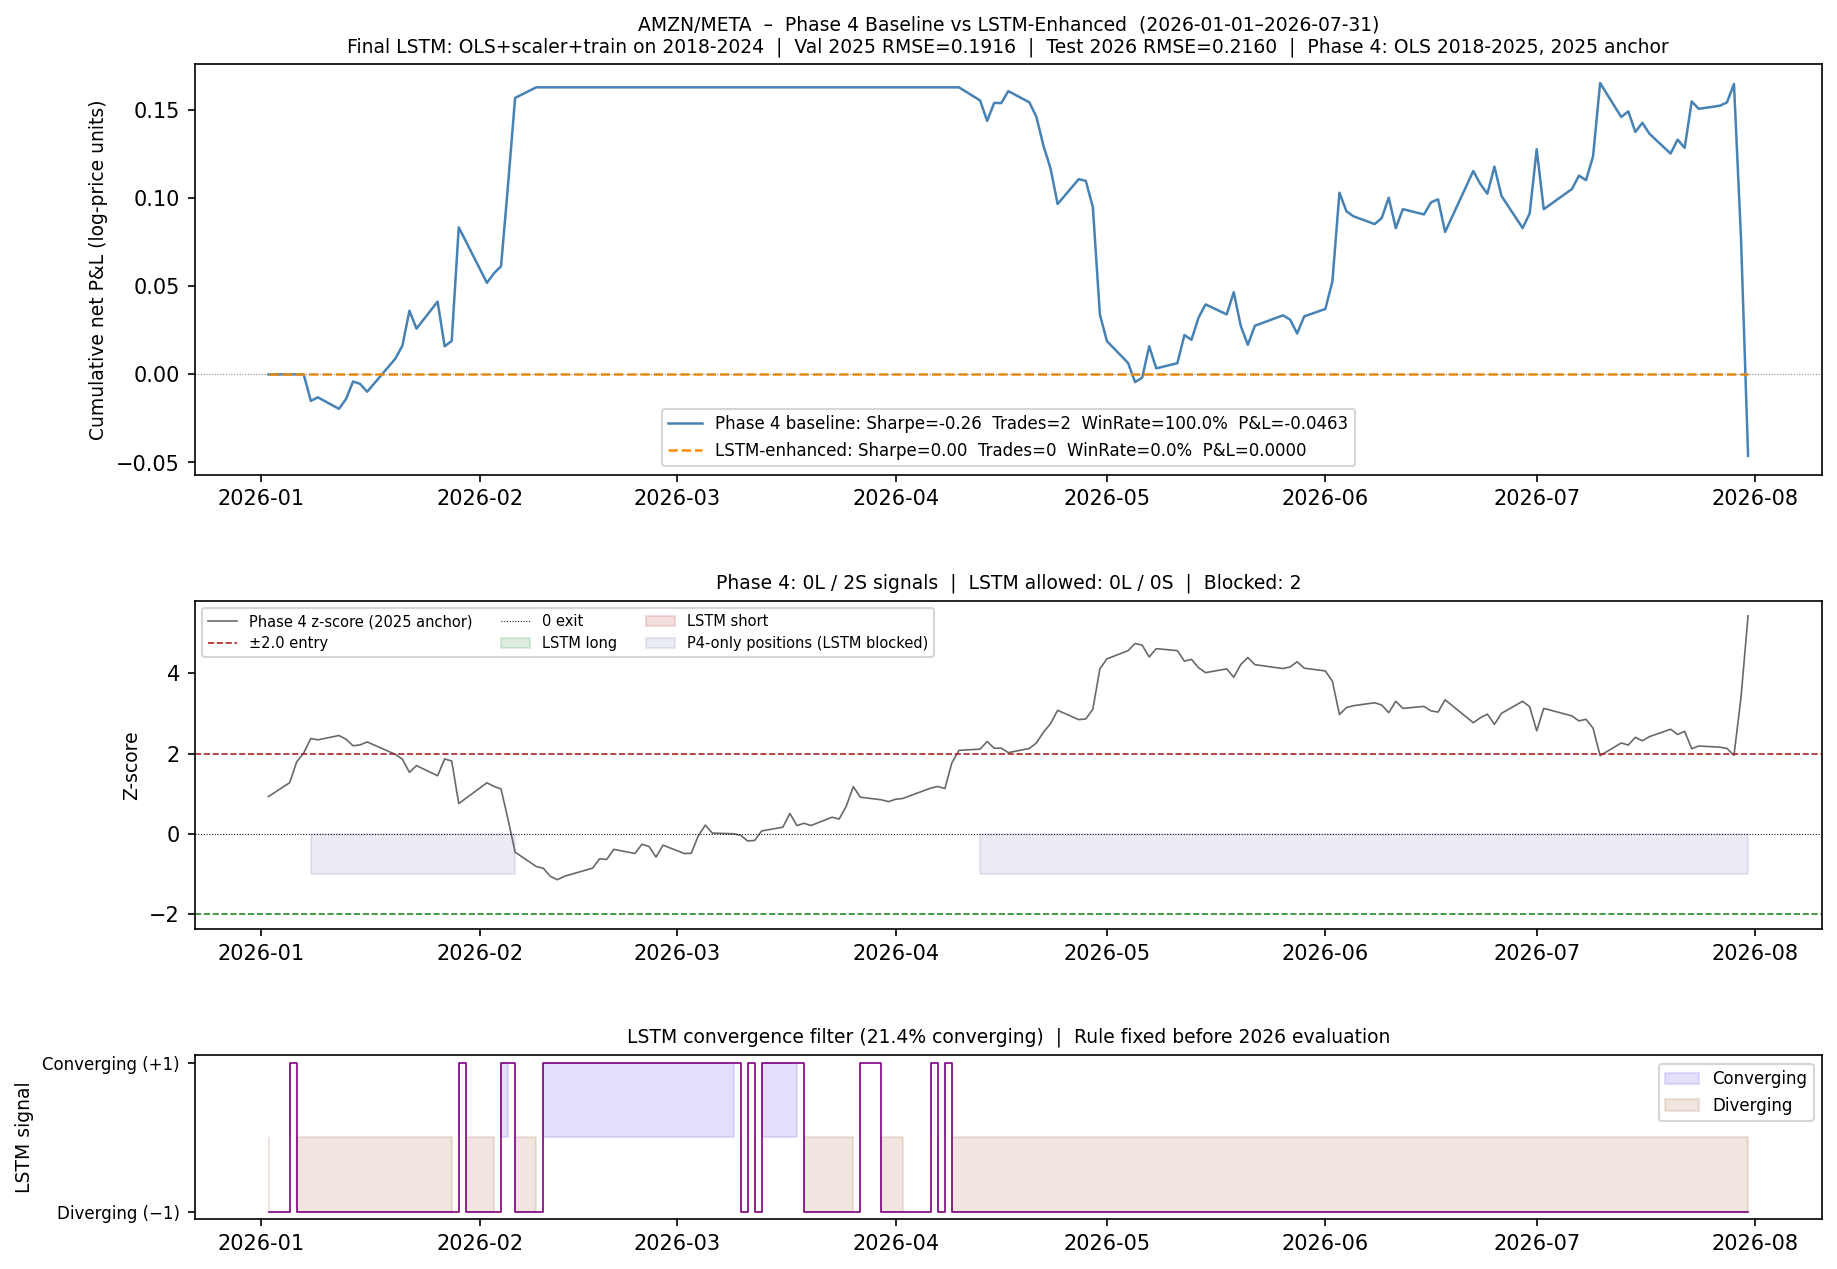
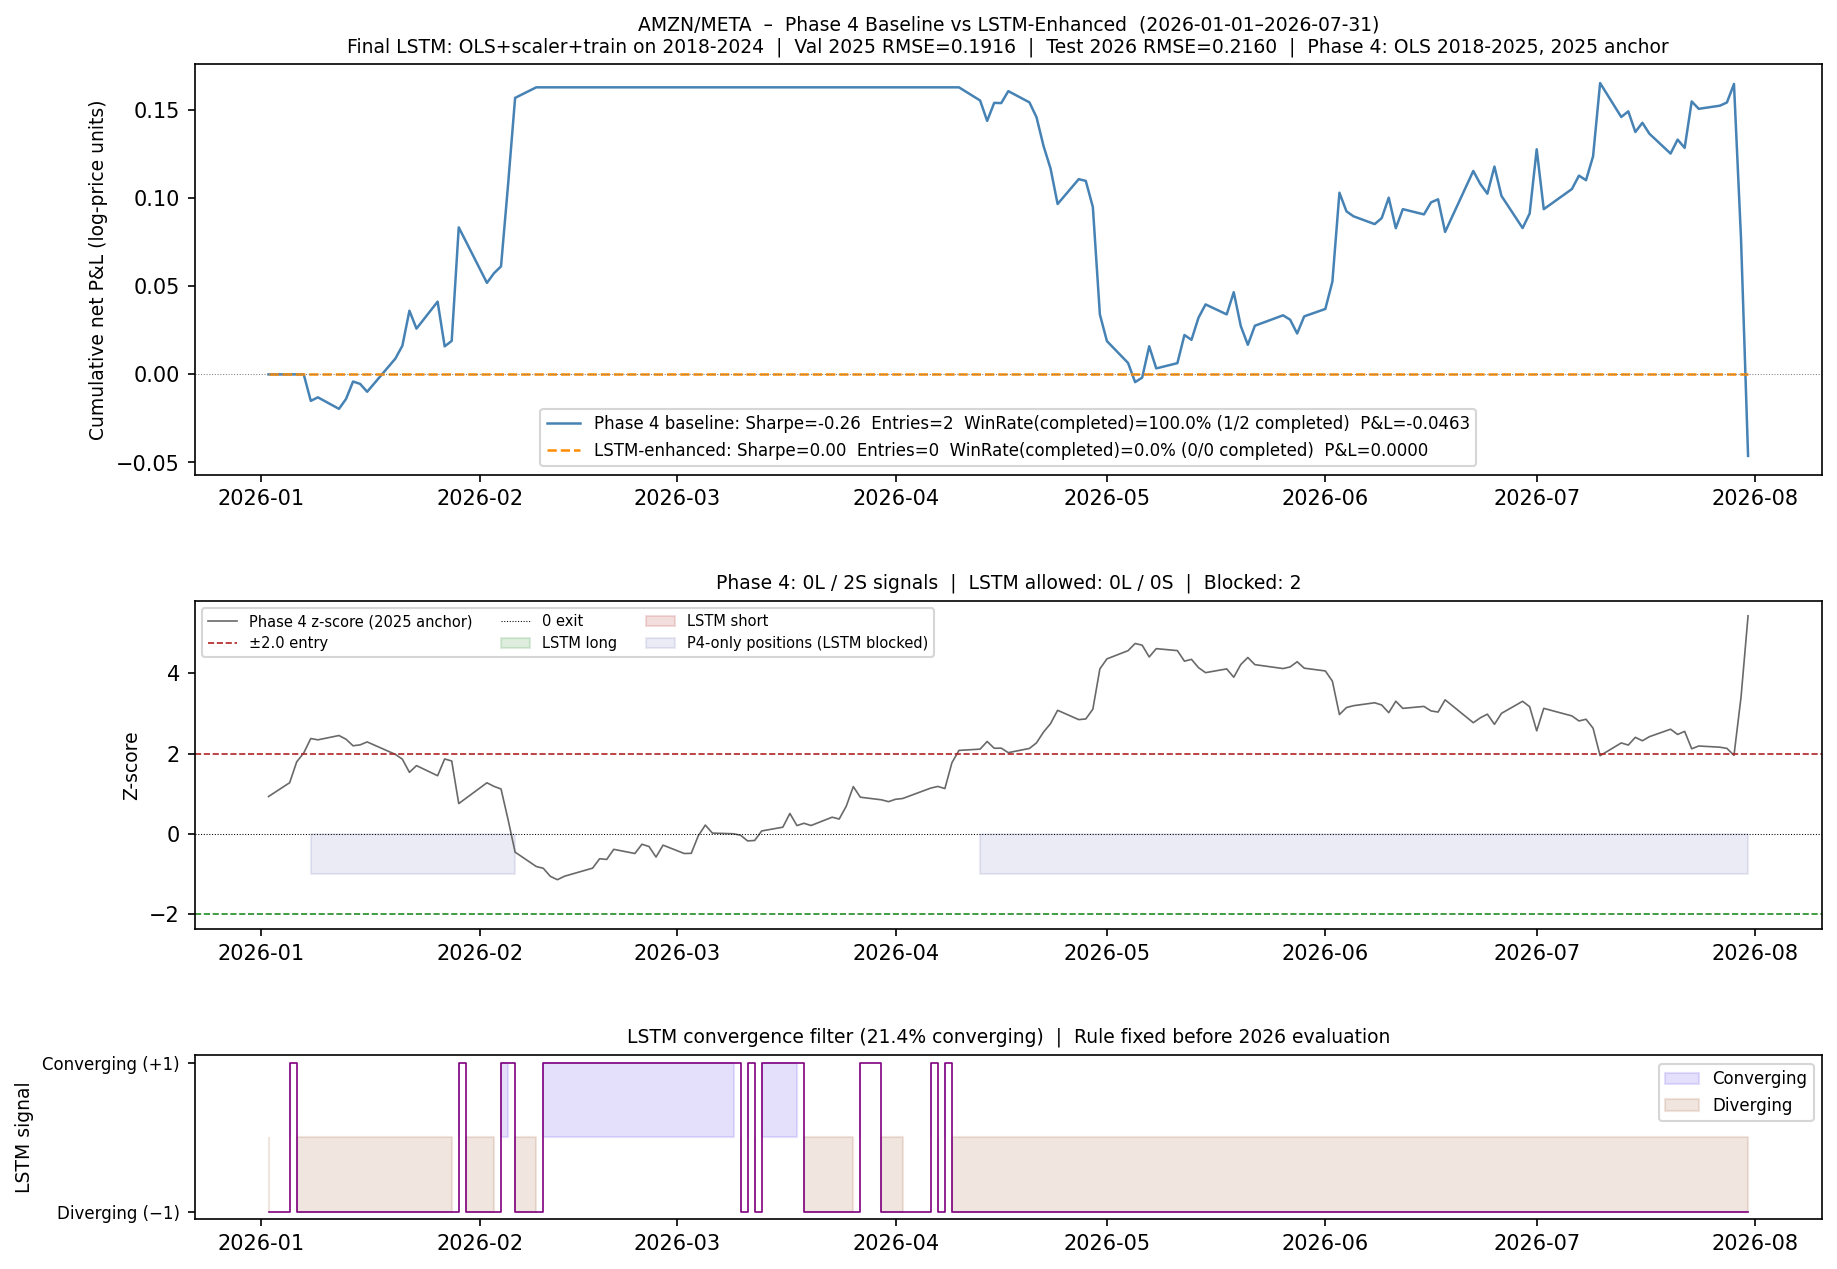
Task 4: fix win rate / completed-trade ambiguity in Phase 5
- Rename P4_Trades/LSTM_Trades -> P4_Entries/LSTM_Entries throughout
  (entry events != completed round-trips)
- Win rate now shows denominator: "100.0% (1/2 completed)"
  so 100% alongside negative total PnL is no longer misleading
- Chart legend: Trades= -> Entries=; WinRate= -> WinRate(completed)=
- CSV columns renamed to P4_CompletedWinRate, LSTM_CompletedWinRate,
  P4_Entries, LSTM_Entries
- Final summary table footer clarifies win rate denominator
- utils.py: remove unused numpy import

Changed region(s): [[0.3103, 0.3073, 0.8068, 0.3688]]

diff --git a/src/phase5_ml_spread.py b/src/phase5_ml_spread.py
@@ -1209,7 +1209,7 @@ def run_phase5_final_2026(dep, indep, tests_passed, refresh=False):
     # 10. Report comparison
     # ------------------------------------------------------------------
     REPORT_KEYS = [
-        ("Num_trades",            "Trades"),
+        ("Num_trades",            "Entries (incl. open)"),
         ("Total_PnL",             "Total net P&L"),
         ("Ann_PnL",               "Annual P&L"),
         ("Sharpe_ratio",          "Sharpe ratio"),
@@ -1230,14 +1230,16 @@ def run_phase5_final_2026(dep, indep, tests_passed, refresh=False):
         fmt_b = f"{vb:.4f}" if isinstance(vb, float) else str(vb)
         fmt_l = f"{vl:.4f}" if isinstance(vl, float) else str(vl)
         print(row_fmt.format(label, fmt_b, fmt_l))
-    # Win rate + completed-trade count (denominator)
-    wr_p4_s   = f"{wr_p4:.1f}%" if not (isinstance(wr_p4, float) and
-                                          np.isnan(wr_p4)) else "n/a"
-    wr_lstm_s = f"{wr_lstm:.1f}%" if not (isinstance(wr_lstm, float) and
-                                           np.isnan(wr_lstm)) else "n/a"
-    print(row_fmt.format("Completed-trade win rate", wr_p4_s, wr_lstm_s))
-    print(row_fmt.format("Completed trades (denom.)",
-                         str(n_comp_p4), str(n_comp_lstm)))
+    # Win rate: show "X% (n_completed/n_entries)" so the denominator is always visible
+    n_entries_p4   = m_p4.get("Num_trades",   0)
+    n_entries_lstm = m_lstm.get("Num_trades", 0)
+    def _wr_str(wr, n_comp, n_entries):
+        if isinstance(wr, float) and np.isnan(wr):
+            return f"n/a (0/{n_entries} completed)"
+        return f"{wr:.1f}% ({n_comp}/{n_entries} completed)"
+    wr_p4_s   = _wr_str(wr_p4,   n_comp_p4,   n_entries_p4)
+    wr_lstm_s = _wr_str(wr_lstm, n_comp_lstm, n_entries_lstm)
+    print(row_fmt.format("Win rate (completed only)", wr_p4_s, wr_lstm_s))
     print()
     print(f"    Signal counts:")
     blocked = (n_long_p4 + n_short_p4) - (n_long_lstm + n_short_lstm)
@@ -1301,13 +1303,13 @@ def run_phase5_final_2026(dep, indep, tests_passed, refresh=False):
     ax3a = fig3.add_subplot(gs3[0])
     ax3a.plot(bt_p4.index,   bt_p4["cum_pnl"],  color="steelblue", lw=1.2,
               label=(f"Phase 4 baseline: Sharpe={m_p4['Sharpe_ratio']:.2f}  "
-                     f"Trades={m_p4['Num_trades']}  "
-                     f"WinRate={wr_p4_s}  "
+                     f"Entries={m_p4['Num_trades']}  "
+                     f"WinRate(completed)={wr_p4_s}  "
                      f"P&L={m_p4['Total_PnL']:.4f}"))
     ax3a.plot(bt_lstm.index, bt_lstm["cum_pnl"], color="darkorange", lw=1.2, ls="--",
               label=(f"LSTM-enhanced: Sharpe={m_lstm['Sharpe_ratio']:.2f}  "
-                     f"Trades={m_lstm['Num_trades']}  "
-                     f"WinRate={wr_lstm_s}  "
+                     f"Entries={m_lstm['Num_trades']}  "
+                     f"WinRate(completed)={wr_lstm_s}  "
                      f"P&L={m_lstm['Total_PnL']:.4f}"))
     ax3a.axhline(0, color="grey", lw=0.5, ls=":")
     ax3a.set_ylabel("Cumulative net P&L (log-price units)", fontsize=9)
@@ -1383,22 +1385,22 @@ def run_phase5_final_2026(dep, indep, tests_passed, refresh=False):
         "P4_short_signals": n_short_p4,
         "LSTM_long_signals":  n_long_lstm,
         "LSTM_short_signals": n_short_lstm,
-        "P4_Sharpe":   m_p4.get("Sharpe_ratio"),
-        "P4_Trades":   m_p4.get("Num_trades"),
-        "P4_PnL":      m_p4.get("Total_PnL"),
-        "P4_MaxDD":    m_p4.get("Max_drawdown"),
-        "P4_WinRate":        round(wr_p4, 1) if not np.isnan(wr_p4) else None,
-        "P4_CompletedTrades": n_comp_p4,
-        "P4_AvgTrade":       m_p4.get("Avg_trade_PnL"),
-        "P4_InMkt":          m_p4.get("Pct_in_market"),
-        "LSTM_Sharpe":       m_lstm.get("Sharpe_ratio"),
-        "LSTM_Trades":       m_lstm.get("Num_trades"),
-        "LSTM_PnL":          m_lstm.get("Total_PnL"),
-        "LSTM_MaxDD":        m_lstm.get("Max_drawdown"),
-        "LSTM_WinRate":      round(wr_lstm, 1) if not np.isnan(wr_lstm) else None,
-        "LSTM_CompletedTrades": n_comp_lstm,
-        "LSTM_AvgTrade":     m_lstm.get("Avg_trade_PnL"),
-        "LSTM_InMkt":        m_lstm.get("Pct_in_market"),
+        "P4_Sharpe":              m_p4.get("Sharpe_ratio"),
+        "P4_Entries":             m_p4.get("Num_trades"),
+        "P4_PnL":                 m_p4.get("Total_PnL"),
+        "P4_MaxDD":               m_p4.get("Max_drawdown"),
+        "P4_CompletedWinRate":    round(wr_p4, 1) if not np.isnan(wr_p4) else None,
+        "P4_CompletedTrades":     n_comp_p4,
+        "P4_AvgTrade":            m_p4.get("Avg_trade_PnL"),
+        "P4_InMkt":               m_p4.get("Pct_in_market"),
+        "LSTM_Sharpe":            m_lstm.get("Sharpe_ratio"),
+        "LSTM_Entries":           m_lstm.get("Num_trades"),
+        "LSTM_PnL":               m_lstm.get("Total_PnL"),
+        "LSTM_MaxDD":             m_lstm.get("Max_drawdown"),
+        "LSTM_CompletedWinRate":  round(wr_lstm, 1) if not np.isnan(wr_lstm) else None,
+        "LSTM_CompletedTrades":   n_comp_lstm,
+        "LSTM_AvgTrade":          m_lstm.get("Avg_trade_PnL"),
+        "LSTM_InMkt":             m_lstm.get("Pct_in_market"),
     }
 
 
@@ -1555,23 +1557,26 @@ def main():
         print(f"{'='*65}")
         col_w = 12
         hdr2 = (f"  {'Pair':<12}  {'TestRMSE':>{col_w}}  {'P4 Sharpe':>{col_w}}  "
-                f"{'LSTM Sharpe':>{col_w}}  {'P4 Trades':>{col_w}}  "
-                f"{'LSTM Trades':>{col_w}}  {'P4 WinRate':>{col_w}}  "
-                f"{'LSTM WinRate':>{col_w}}")
+                f"{'LSTM Sharpe':>{col_w}}  {'P4 Entries':>{col_w}}  "
+                f"{'LSTM Entries':>{col_w}}  {'P4 WinRate*':>{col_w}}  "
+                f"{'LSTM WinRate*':>{col_w}}")
         print(hdr2)
         print("-" * len(hdr2))
         for r in final_rows:
-            wr_p  = f"{r['P4_WinRate']:.1f}%" if r.get("P4_WinRate") is not None \
-                    else "n/a"
-            wr_l  = f"{r['LSTM_WinRate']:.1f}%" if r.get("LSTM_WinRate") is not None \
-                    else "n/a"
+            wr_p = (f"{r['P4_CompletedWinRate']:.1f}%"
+                    f"({r['P4_CompletedTrades']}/{r['P4_Entries']})"
+                    if r.get("P4_CompletedWinRate") is not None else "n/a")
+            wr_l = (f"{r['LSTM_CompletedWinRate']:.1f}%"
+                    f"({r['LSTM_CompletedTrades']}/{r['LSTM_Entries']})"
+                    if r.get("LSTM_CompletedWinRate") is not None else "n/a")
             print(f"  {r['Pair']:<12}  "
                   f"{r['Test_RMSE_2026']:>{col_w}.4f}  "
                   f"{r['P4_Sharpe']:>{col_w}.4f}  "
                   f"{r['LSTM_Sharpe']:>{col_w}.4f}  "
-                  f"{r['P4_Trades']:>{col_w}}  "
-                  f"{r['LSTM_Trades']:>{col_w}}  "
+                  f"{r['P4_Entries']:>{col_w}}  "
+                  f"{r['LSTM_Entries']:>{col_w}}  "
                   f"{wr_p:>{col_w}}  {wr_l:>{col_w}}")
+        print("  * Win rate over completed (closed) trades only; open trades excluded.")
         print(f"\n  Saved -> {final_csv.name}")
 
     print(f"\n{'='*65}")

diff --git a/src/utils.py b/src/utils.py
@@ -1,5 +1,4 @@
 from pathlib import Path
-import numpy as np
 import pandas as pd
 
 # ---------------------------------------------------------------------------
